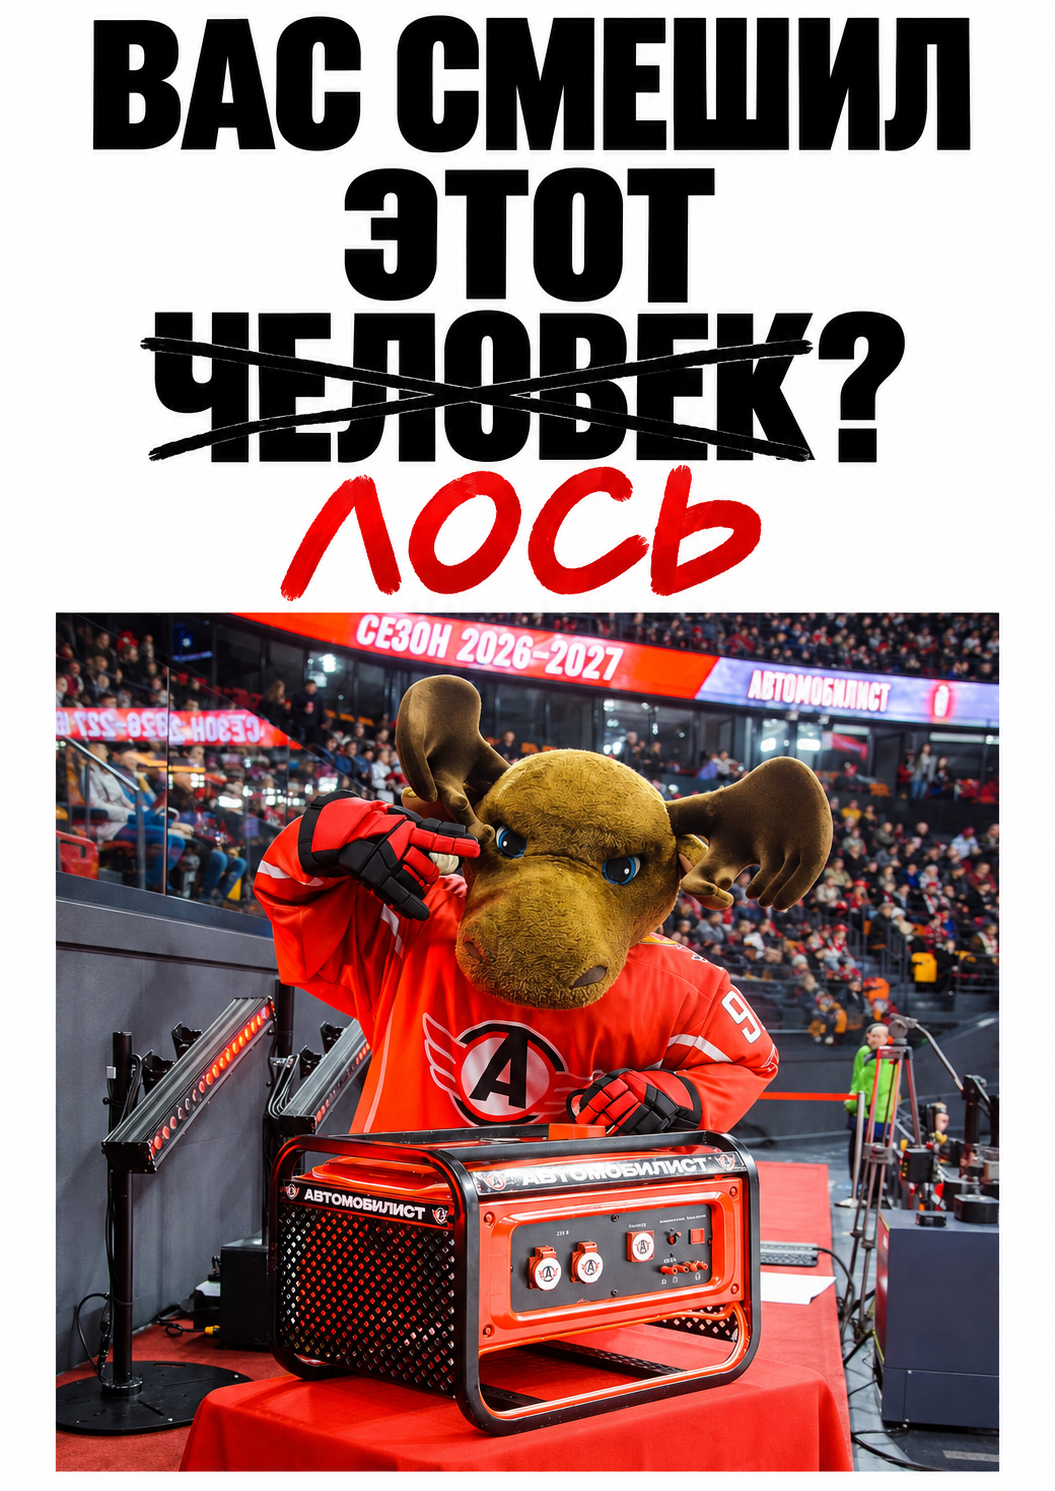
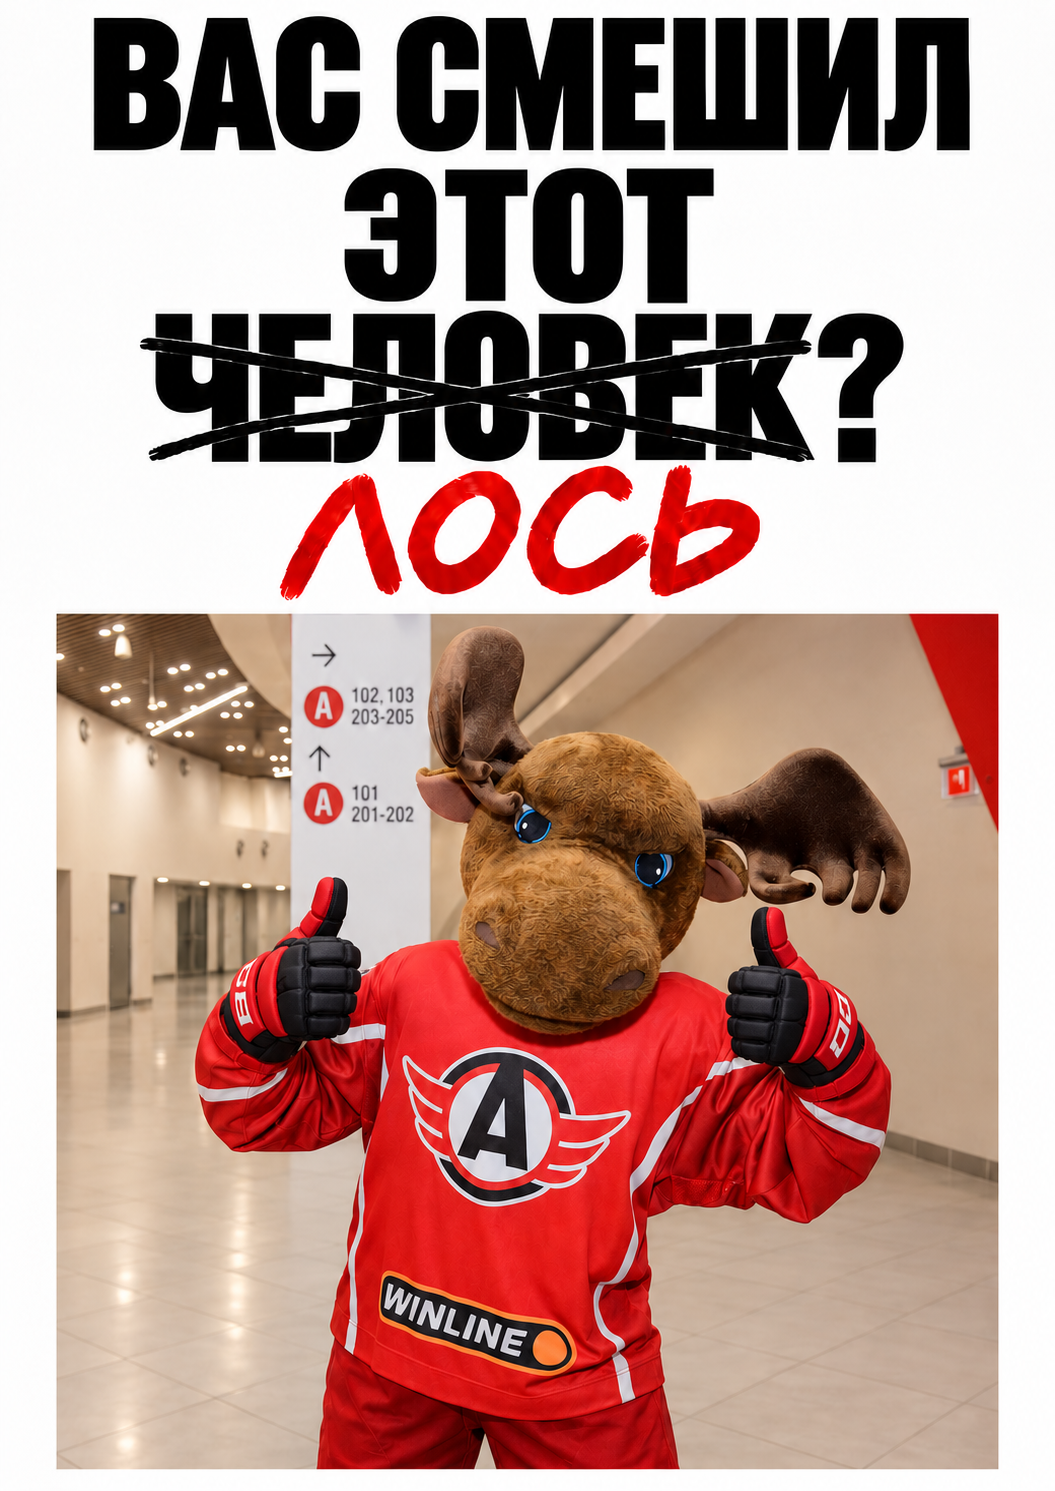
Update first portrait meme and add two more portrait pages

diff --git a/src/views/GalleryView.js b/src/views/GalleryView.js
@@ -6,6 +6,8 @@ export class GalleryView {
   constructor(root, catalog) { this.root = root; this.catalog = catalog; }
 
   render() {
+    const memes = this.catalog.getAll();
+    const collectionSize = String(memes.length).padStart(2, '0');
     document.title = 'Мемотека — выбери настроение';
     this.root.innerHTML = `<div class="gallery-shell">
       <header class="site-header">
@@ -17,12 +19,12 @@ export class GalleryView {
         <section class="introduction" aria-labelledby="gallery-title">
           <span class="eyebrow">КОЛЛЕКЦИЯ ХОРОШЕГО НАСТРОЕНИЯ</span>
           <h1 id="gallery-title">Меньше слов.<br>Больше <span>мемов.</span><sup>↗</sup></h1>
-          <div class="intro-bottom"><p>Три картинки. Три настроения.<br>Выбирай своё — и открывай на весь экран.</p>
-          <span class="collection-count"><b>03</b> МЕМА В КОЛЛЕКЦИИ</span></div>
+          <div class="intro-bottom"><p>Картинки на любой случай.<br>Выбирай настроение — и открывай на весь экран.</p>
+          <span class="collection-count"><b>${collectionSize}</b> МЕМОВ В КОЛЛЕКЦИИ</span></div>
         </section>
         <section class="collection" aria-label="Выбор мема">
-          <div class="collection-heading"><span>ВЫБЕРИ НАСТРОЕНИЕ</span><span>01 — 03</span></div>
-          <div class="meme-grid">${this.catalog.getAll().map(renderMemeCard).join('')}</div>
+          <div class="collection-heading"><span>ВЫБЕРИ НАСТРОЕНИЕ</span><span>01 — ${collectionSize}</span></div>
+          <div class="meme-grid">${memes.map(renderMemeCard).join('')}</div>
         </section>
       </main>
       <footer class="site-footer"><span>Просто мемы. Ничего лишнего.</span><span>Открывай. Улыбайся. Повторяй. ${renderIcon('arrow')}</span></footer>

diff --git a/scripts/serve.js b/scripts/serve.js
@@ -2,6 +2,7 @@ import { createServer } from 'node:http';
 import { readFile, stat } from 'node:fs/promises';
 import { extname, resolve, sep } from 'node:path';
 import { contentTypes } from './serverTypes.js';
+import { memeDefinitions } from '../src/data/memes.js';
 
 const rootDirectory = resolve(process.argv[2] || '.');
 const port = Number(process.env.PORT || 5173);
@@ -17,7 +18,7 @@ async function serveRequest(request, response) {
     if (rootDirectory === resolve('.') && (pathname.startsWith('/memes/') || pathname === '/favicon.svg')) {
       target = resolve(rootDirectory, 'public', relative);
     }
-    if (/^\/memes\/(horizontal(?:-2)?|vertical-1)\/?$/.test(pathname)) {
+    if (memeDefinitions.some(({ id }) => pathname.replace(/\/$/, '') === `/memes/${id}`)) {
       target = resolve(rootDirectory, 'index.html');
     }
     if (!(await stat(target)).isFile()) throw new Error('Not a file');

diff --git a/index.html b/index.html
@@ -4,7 +4,7 @@
     <meta charset="UTF-8">
     <meta name="viewport" content="width=device-width, initial-scale=1, viewport-fit=cover">
     <meta name="theme-color" content="#141414">
-    <meta name="description" content="Три мема. Выберите настроение и откройте картинку на весь экран.">
+    <meta name="description" content="Коллекция мемов. Выберите настроение и откройте картинку на весь экран.">
     <title>Мемотека — выбери настроение</title>
     <link rel="icon" href="/favicon.svg" type="image/svg+xml">
     <link rel="stylesheet" href="/src/styles/index.css">

diff --git a/src/data/memes.js b/src/data/memes.js
@@ -14,4 +14,14 @@ export const memeDefinitions = [
     caption: 'Без лишних объяснений', orientation: 'landscape',
     source: '/memes/horizontal-2.png', label: 'Горизонтальный',
   },
+  {
+    id: 'vertical-2', title: 'Поймал момент', number: '04',
+    caption: 'Тот самый кадр', orientation: 'portrait',
+    source: '/memes/vertical-2.png', label: 'Вертикальный',
+  },
+  {
+    id: 'vertical-3', title: 'Без комментариев', number: '05',
+    caption: 'Картинка говорит сама за себя', orientation: 'portrait',
+    source: '/memes/vertical-3.png', label: 'Вертикальный',
+  },
 ];

diff --git a/src/styles/art.css b/src/styles/art.css
@@ -2,6 +2,8 @@
 .art-01 { background: var(--accent); }
 .art-02 { background: #e8e8e8; }
 .art-03 { background: #f5a0a4; }
+.art-04 { background: #e8e8e8; }
+.art-05 { background: #f5a0a4; }
 .art-label { position: absolute; right: 17px; top: 20px; font-size: 9px; letter-spacing: .14em; opacity: .6; }
 .art-face { width: 93px; height: 93px; border: 3px solid currentColor; border-radius: 50%; position: relative; transform: rotate(-12deg); }
 .art-face i { display: block; position: absolute; width: 7px; height: 13px; background: currentColor; top: 25px; border-radius: 50%; }

diff --git a/tests/layout.test.js b/tests/layout.test.js
@@ -28,7 +28,7 @@ test('image stays inside viewport for phone, tablet and desktop in both orientat
 });
 test('catalog encapsulates its collection and models expose immutable data', () => {
   catalog.getAll().pop();
-  assert.equal(catalog.getAll().length, 3);
+  assert.equal(catalog.getAll().length, memeDefinitions.length);
   assert.equal(catalog.findById('missing'), undefined);
   assert.throws(() => new Meme({}), TypeError);
   assert.throws(() => { landscape.details.id = 'changed'; }, TypeError);

diff --git a/scripts/build.js b/scripts/build.js
@@ -16,4 +16,4 @@ for (const meme of memeDefinitions) {
 }
 await cp('index.html', resolve(outputDirectory, '404.html'));
 if (!page.includes('charset="UTF-8"')) throw new Error('UTF-8 charset is required');
-console.log('Built gallery and three standalone meme pages in dist/');
+console.log(`Built gallery and ${memeDefinitions.length} standalone meme pages in dist/`);

diff --git a/public/memes/README.md b/public/memes/README.md
@@ -1,12 +1,14 @@
 # Картинки для галереи
 
-Добавьте в эту папку три файла с точными именами:
+В этой папке подключены пять файлов:
 
 - `horizontal.png` — горизонтальная картинка (уже добавлена).
 - `vertical-1.png` — вертикальная картинка (уже добавлена).
 - `horizontal-2.png` — вторая горизонтальная картинка (уже добавлена).
+- `vertical-2.png` — вторая вертикальная картинка.
+- `vertical-3.png` — третья вертикальная картинка.
 
-Все три картинки подключены в формате PNG. При смене формата измените
+Все картинки подключены в формате PNG. При смене формата измените
 расширение соответствующего пути в `src/data/memes.js`.
 Размеры могут быть любыми: сайт использует реальные пропорции файла.
 Изображения показываются целиком, без обрезки.

diff --git a/README.md b/README.md
@@ -1,14 +1,14 @@
 # Мемотека
 
-Галерея трёх мемов на чистом JavaScript, HTML и CSS. Главная: `/`.
+Галерея пяти мемов на чистом JavaScript, HTML и CSS. Главная: `/`.
 Отдельные страницы: `/memes/horizontal`,
-`/memes/vertical-1`, `/memes/horizontal-2`.
+`/memes/vertical-1`, `/memes/horizontal-2`, `/memes/vertical-2`, `/memes/vertical-3`.
 
 ## Картинки
 
 Папка: `public/memes/`. Подробности — в её `README.md`.
 Первые две картинки подключены как `horizontal.png` и `vertical-1.png`.
-Вторая горизонтальная картинка подключена как `horizontal-2.png`.
+Также подключены `horizontal-2.png`, `vertical-2.png` и `vertical-3.png`.
 Названия, подписи и пути изменяются в `src/data/memes.js`.
 Без файла показывается заглушка. Изображения всегда помещаются целиком.
 Горизонтальный мем автоматически поворачивается на портретном экране,
